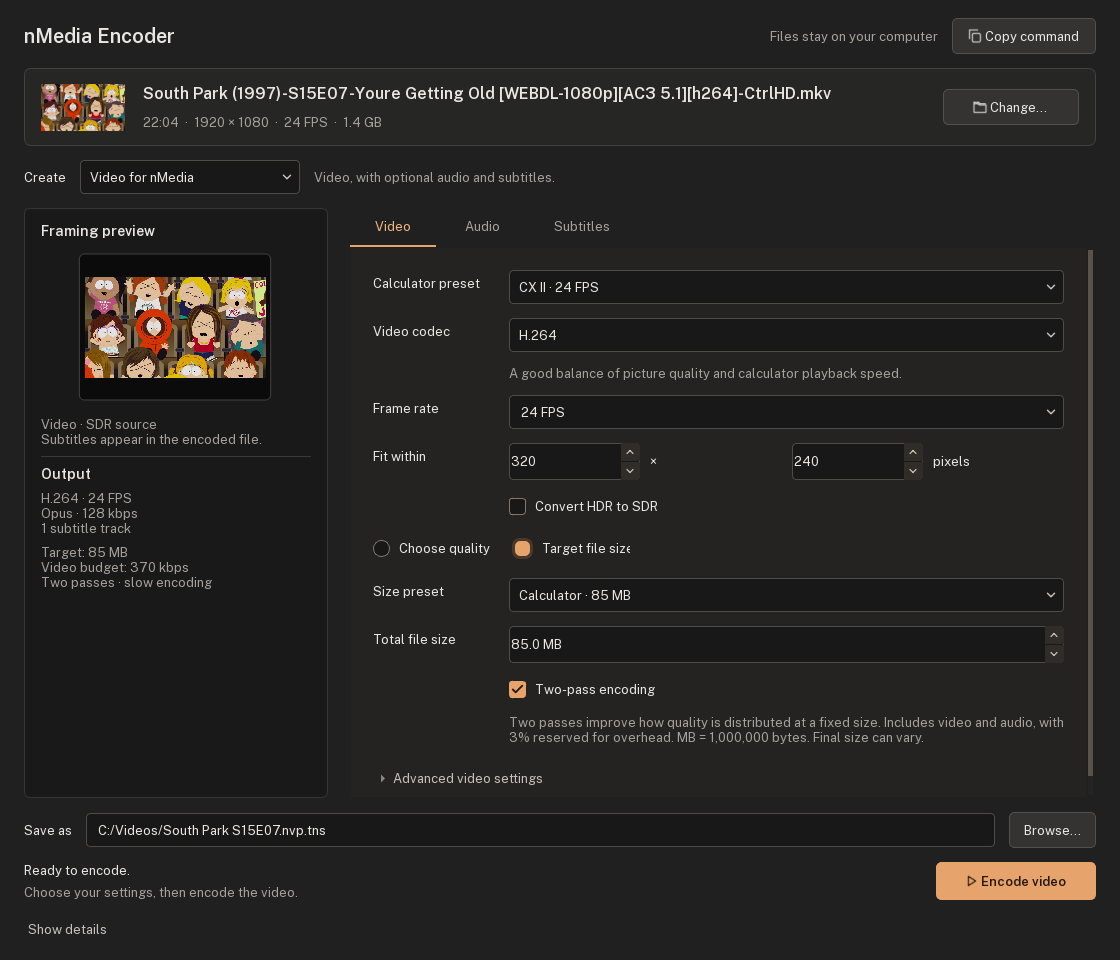
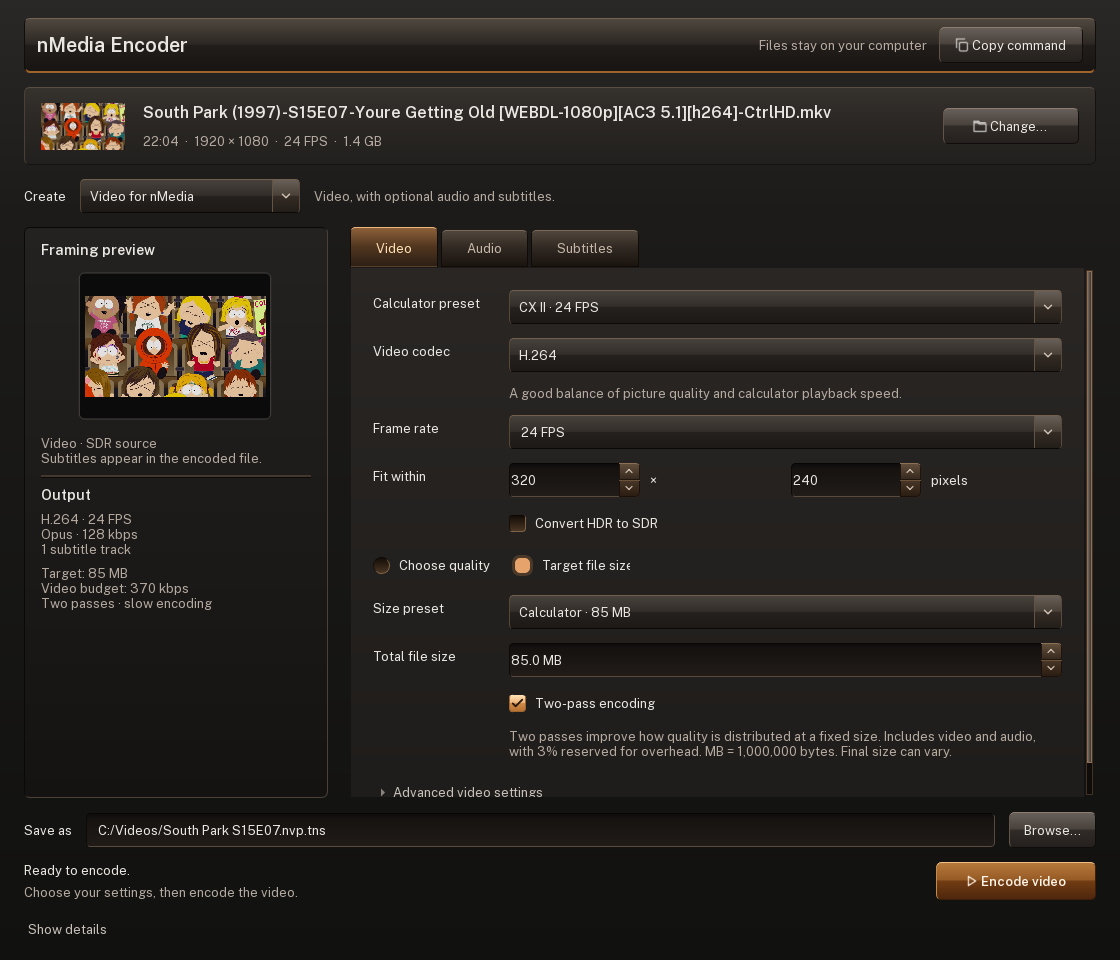
Match encoder controls to the player's Amber styling

Changed region(s): [[0.0, 0.0, 1.0, 0.8438], [0.8125, 0.8438, 1.0, 0.9375], [0.3438, 0.4062, 0.375, 0.5]]

diff --git a/tools/encoder_gui/widgets.py b/tools/encoder_gui/widgets.py
@@ -80,66 +80,71 @@ class Preview(QWidget):
 
 STYLES="""
 QWidget { background: transparent; color: #eae7e3; font-family: 'Public Sans', 'Noto Sans'; font-size: 13px; }
-QMainWindow { background: #202020; }
-QDialog { background: #262625; }
+QMainWindow { background: qlineargradient(x1:0,y1:0,x2:0,y2:1,stop:0 #292827,stop:0.22 #1c1b1a,stop:1 #111110); }
+QDialog { background: #211e1b; }
 QLabel { background: transparent; }
 QLabel#appTitle { font-size: 20px; font-weight: 600; }
 QLabel#sourceTitle { font-size: 16px; font-weight: 600; }
-QLabel#muted { color: #a6a19a; }
+QLabel#muted { color: #b5aaa0; }
 QLabel#sectionTitle { color: #eae7e3; font-weight: 600; font-size: 14px; }
 QLabel#error { color: #ffaf9e; background: #3b2925; border: 1px solid #815347; border-radius: 5px; padding: 9px 12px; }
-QFrame#sourceCard { background: #262625; border: 1px solid #45423e; border-radius: 7px; }
+QFrame#appHeader { background: qlineargradient(x1:0,y1:0,x2:0,y2:1,stop:0 #514940,stop:0.48 #2c2723,stop:0.50 #211d1a,stop:1 #171412); border: 1px solid #100d0b; border-top-color: #746456; border-bottom: 2px solid #9e642c; border-radius: 6px; }
+QFrame#sourceCard { background: qlineargradient(x1:0,y1:0,x2:0,y2:1,stop:0 #36322e,stop:0.5 #292623,stop:1 #22201e); border: 1px solid #15110e; border-top-color: #5b4e42; border-left-color: #4c4036; border-radius: 6px; }
 QFrame#sourceCard[dragging="true"] { border: 2px solid #e6a46c; }
-QFrame#previewPanel { background: #191919; border: 1px solid #373533; border-radius: 6px; }
+QFrame#previewPanel { background: qlineargradient(x1:0,y1:0,x2:0,y2:1,stop:0 #242220,stop:1 #141312); border: 1px solid #4c4137; border-top-color: #080706; border-left-color: #0b0908; border-radius: 6px; }
 QFrame#footer { background: #262625; border-top: 1px solid #403d39; }
-QFrame#divider { background: #3d3934; border: none; max-height: 1px; }
-QPushButton { background: #343332; border: 1px solid #55504b; border-radius: 5px; padding: 8px 14px; min-height: 18px; }
-QPushButton:hover { background: #42403d; border-color: #9b8672; }
-QPushButton:pressed { background: #282725; border-color: #e6a46c; padding-top: 9px; padding-bottom: 7px; }
-QPushButton:focus { border: 1px solid #e6a46c; }
-QPushButton:disabled { background: #2b2b2a; color: #77736e; border-color: #3c3a37; }
-QPushButton#primary { color: #25180e; background: #e6a46c; border: 1px solid #e6a46c; font-weight: 600; padding: 9px 24px; }
-QPushButton#primary:hover { background: #f0b782; border-color: #f0b782; }
-QPushButton#primary:pressed { background: #cc8b54; }
-QPushButton#primary:disabled { background: #66503e; border-color: #66503e; color: #b6a18f; }
+QFrame#divider { background: #44382e; border: none; border-bottom: 1px solid #0b0908; max-height: 2px; }
+QPushButton { background: qlineargradient(x1:0,y1:0,x2:0,y2:1,stop:0 #68605a,stop:0.47 #49413b,stop:0.50 #312b27,stop:1 #24201d); border: 1px solid #100c09; border-top-color: #8e7d6e; border-left-color: #655548; border-radius: 5px; padding: 8px 14px; min-height: 18px; }
+QPushButton:hover { background: qlineargradient(x1:0,y1:0,x2:0,y2:1,stop:0 #81705f,stop:0.47 #5d4a3c,stop:0.50 #413025,stop:1 #2b2119); border-color: #c08b53; border-top-color: #edbd8a; }
+QPushButton:pressed { background: qlineargradient(x1:0,y1:0,x2:0,y2:1,stop:0 #221a14,stop:0.5 #342519,stop:1 #514033); border-top-color: #17100b; border-left-color: #20140c; border-bottom-color: #ba8b5b; padding-top: 9px; padding-bottom: 7px; }
+QPushButton:focus { border-color: #e6a46c; }
+QPushButton:disabled { background: qlineargradient(x1:0,y1:0,x2:0,y2:1,stop:0 #393430,stop:0.5 #2a2521,stop:1 #211d1a); color: #918478; border-color: #3f352c; border-top-color: #55483c; }
+QPushButton#primary { color: #fff4e6; background: qlineargradient(x1:0,y1:0,x2:0,y2:1,stop:0 #b67a3b,stop:0.47 #965a26,stop:0.50 #723c13,stop:1 #4d260c); border: 1px solid #3e1e08; border-top-color: #f0bf87; border-left-color: #c58a4b; font-weight: 600; padding: 9px 24px; }
+QPushButton#primary:hover { background: qlineargradient(x1:0,y1:0,x2:0,y2:1,stop:0 #d5944c,stop:0.47 #ab682b,stop:0.50 #874917,stop:1 #65300e); border-color: #edb773; }
+QPushButton#primary:pressed { background: qlineargradient(x1:0,y1:0,x2:0,y2:1,stop:0 #452109,stop:0.5 #70390f,stop:1 #9a5d29); border-top-color: #331705; border-bottom-color: #e0a56b; padding-top: 10px; padding-bottom: 8px; }
+QPushButton#primary:disabled { background: qlineargradient(x1:0,y1:0,x2:0,y2:1,stop:0 #66503a,stop:1 #352719); border-color: #513e2c; color: #b6a18f; }
 QToolButton { border: none; padding: 6px 0; color: #c7c1b9; background: transparent; }
 QToolButton:hover { color: #f0b782; }
-QLineEdit,QComboBox,QSpinBox,QDoubleSpinBox { background: #181818; border: 1px solid #514b45; border-radius: 4px; padding: 7px 9px; min-height: 18px; selection-background-color: #755137; }
+QLineEdit,QComboBox,QSpinBox,QDoubleSpinBox { background: qlineargradient(x1:0,y1:0,x2:0,y2:1,stop:0 #0d0c0b,stop:0.16 #151210,stop:1 #211c18); border: 1px solid #594a3d; border-top-color: #080605; border-left-color: #0c0907; border-radius: 4px; padding: 7px 9px; min-height: 18px; selection-background-color: #755137; }
 QLineEdit:focus,QComboBox:focus,QSpinBox:focus,QDoubleSpinBox:focus { border-color: #e6a46c; }
 QLineEdit[invalid="true"],QComboBox[invalid="true"],QSpinBox[invalid="true"],QDoubleSpinBox[invalid="true"] { border-color: #e8a18b; background: #332521; }
 QLineEdit:disabled,QComboBox:disabled,QSpinBox:disabled,QDoubleSpinBox:disabled { color: #78736d; border-color: #373431; background: #252422; }
-QComboBox { padding-right: 28px; }
-QComboBox::drop-down { border: none; width: 24px; }
+QComboBox { padding-right: 28px; background: qlineargradient(x1:0,y1:0,x2:0,y2:1,stop:0 #47423c,stop:0.48 #332e29,stop:0.51 #25211e,stop:1 #1c1916); border-top-color: #73604c; border-left-color: #594735; border-bottom-color: #0c0805; }
+QComboBox:hover { border-color: #ad7a46; }
+QComboBox::drop-down { border: none; border-left: 1px solid #655444; width: 26px; background: qlineargradient(x1:0,y1:0,x2:0,y2:1,stop:0 #686058,stop:0.48 #494038,stop:0.51 #332b24,stop:1 #231e19); border-top-right-radius: 3px; border-bottom-right-radius: 3px; }
+QComboBox::drop-down:pressed { background: #342313; }
 QComboBox::down-arrow { image: url('@ASSETS@/down.svg'); width: 14px; height: 14px; }
 QSpinBox,QDoubleSpinBox { padding-right: 22px; }
-QSpinBox::up-button,QDoubleSpinBox::up-button { subcontrol-origin: border; subcontrol-position: top right; width: 19px; background: #302d29; border-top-right-radius: 4px; }
-QSpinBox::down-button,QDoubleSpinBox::down-button { subcontrol-origin: border; subcontrol-position: bottom right; width: 19px; background: #302d29; border-bottom-right-radius: 4px; }
+QSpinBox::up-button,QDoubleSpinBox::up-button { subcontrol-origin: border; subcontrol-position: top right; width: 19px; background: qlineargradient(x1:0,y1:0,x2:0,y2:1,stop:0 #65513e,stop:1 #34271c); border: 1px solid #20150d; border-top-color: #8e7155; border-top-right-radius: 4px; }
+QSpinBox::down-button,QDoubleSpinBox::down-button { subcontrol-origin: border; subcontrol-position: bottom right; width: 19px; background: qlineargradient(x1:0,y1:0,x2:0,y2:1,stop:0 #4a3828,stop:1 #291b11); border: 1px solid #1b110a; border-top-color: #6d523b; border-bottom-right-radius: 4px; }
 QSpinBox::up-button:hover,QSpinBox::down-button:hover,QDoubleSpinBox::up-button:hover,QDoubleSpinBox::down-button:hover { background: #544334; }
 QSpinBox::up-arrow,QDoubleSpinBox::up-arrow { image: url('@ASSETS@/up.svg'); width: 12px; height: 12px; }
 QSpinBox::down-arrow,QDoubleSpinBox::down-arrow { image: url('@ASSETS@/down.svg'); width: 12px; height: 12px; }
 QComboBox QAbstractItemView { background: #282725; color: #eae7e3; border: 1px solid #615548; selection-background-color: #55402f; padding: 3px; }
-QTabWidget::pane { border: 1px solid #46413c; border-radius: 5px; background: #242322; }
-QTabBar::tab { background: transparent; color: #a8a29a; padding: 11px 25px; border-bottom: 2px solid transparent; margin-right: 4px; }
-QTabBar::tab:selected { color: #f0b782; border-bottom-color: #e6a46c; }
-QTabBar::tab:hover { color: #f2e4d6; background: #2c2926; }
+QTabWidget::pane { border: 1px solid #5a4736; border-top-color: #896d52; border-bottom-color: #090604; border-radius: 5px; background: #211b16; }
+QTabBar::tab { background: qlineargradient(x1:0,y1:0,x2:0,y2:1,stop:0 #51473d,stop:0.48 #302821,stop:1 #19130f); color: #c6b7a9; padding: 10px 25px; border: 1px solid #100b07; border-top-color: #7c6a59; border-top-left-radius: 5px; border-top-right-radius: 5px; margin-right: 3px; margin-top: 3px; }
+QTabBar::tab:selected { color: #ffe0b4; background: qlineargradient(x1:0,y1:0,x2:0,y2:1,stop:0 #8f623a,stop:0.48 #51361f,stop:1 #2a1e14); border-top-color: #edb77b; border-bottom-color: #58402a; margin-top: 0; padding-top: 13px; }
+QTabBar::tab:hover { color: #fff0dd; border-top-color: #d29a60; }
+QTabBar::tab:disabled { color: #8b7b6d; background: #28221c; border-top-color: #473b31; }
 QScrollArea { border: none; background: transparent; }
-QScrollArea > QWidget > QWidget { background: #242322; }
-QScrollBar:vertical { background: #252422; width: 9px; margin: 2px; }
-QScrollBar::handle:vertical { background: #5a5149; border-radius: 3px; min-height: 30px; }
+QScrollArea > QWidget > QWidget { background: qlineargradient(x1:0,y1:0,x2:0,y2:1,stop:0 #292624,stop:1 #1e1c1a); }
+QScrollBar:vertical { background: #100c09; border: 1px solid #413123; width: 11px; margin: 2px; }
+QScrollBar::handle:vertical { background: qlineargradient(x1:0,y1:0,x2:1,y2:0,stop:0 #8e8175,stop:0.45 #5a5047,stop:1 #302a24); border: 1px solid #8b7057; border-radius: 3px; min-height: 30px; }
+QScrollBar::handle:vertical:hover { border-color: #e6a46c; }
 QScrollBar::add-line:vertical,QScrollBar::sub-line:vertical { height: 0; }
 QCheckBox,QRadioButton { spacing: 9px; background: transparent; min-height: 24px; }
-QCheckBox::indicator,QRadioButton::indicator { width: 15px; height: 15px; border: 1px solid #847567; background: #181818; border-radius: 3px; }
+QCheckBox::indicator,QRadioButton::indicator { width: 15px; height: 15px; border: 1px solid #7f6248; border-top-color: #0d0805; border-left-color: #160e08; background: qlineargradient(x1:0,y1:0,x2:0,y2:1,stop:0 #120c07,stop:1 #4c3724); border-radius: 3px; }
 QRadioButton::indicator { border-radius: 8px; }
 QCheckBox::indicator:checked,QRadioButton::indicator:checked { background: #e6a46c; border: 3px solid #4a3829; }
-QCheckBox::indicator:checked,QTreeWidget::indicator:checked { image: url('@ASSETS@/check.svg'); background: #e6a46c; border: 1px solid #e6a46c; border-radius: 3px; }
+QCheckBox::indicator:checked,QTreeWidget::indicator:checked { image: url('@ASSETS@/check.svg'); background: qlineargradient(x1:0,y1:0,x2:0,y2:1,stop:0 #ffe0b2,stop:0.45 #eeb579,stop:0.5 #d08b49,stop:1 #b77232); border: 1px solid #9f662f; border-top-color: #ffdfb0; border-radius: 3px; }
 QCheckBox::indicator:hover,QRadioButton::indicator:hover { border-color: #e6a46c; }
-QTreeWidget { background: #1c1c1b; border: 1px solid #49443e; border-radius: 4px; outline: none; }
+QTreeWidget { background: #17120e; border: 1px solid #5e4937; border-top-color: #090603; border-left-color: #0e0905; border-radius: 4px; outline: none; }
 QTreeWidget::item { min-height: 34px; padding: 4px 7px; }
 QTreeWidget::item:selected { background: #4c3b2d; }
 QTreeWidget::item:hover { background: #35302b; }
-QHeaderView::section { background: #302d29; border: none; border-bottom: 1px solid #49443e; color: #bdb4a9; padding: 7px; }
-QProgressBar { background: #161615; border: none; border-radius: 3px; min-height: 6px; max-height: 6px; }
-QProgressBar::chunk { background: #e6a46c; border-radius: 3px; }
+QHeaderView::section { background: qlineargradient(x1:0,y1:0,x2:0,y2:1,stop:0 #655342,stop:0.48 #3e2f23,stop:0.51 #2e2118,stop:1 #251a12); border: 1px solid #1a1009; border-top-color: #8f7258; color: #ead5c2; padding: 7px; }
+QProgressBar { background: #100b07; border: 1px solid #503924; border-top-color: #040302; border-radius: 4px; min-height: 8px; max-height: 8px; }
+QProgressBar::chunk { background: qlineargradient(x1:0,y1:0,x2:0,y2:1,stop:0 #ffe2b8,stop:0.45 #e8ac66,stop:0.5 #b96e28,stop:1 #804112); border-radius: 3px; }
 QPlainTextEdit { background: #151515; border: 1px solid #49443e; border-radius: 4px; font-family: 'Cascadia Mono',monospace; font-size: 11px; padding: 7px; }
 QToolTip { background: #38322c; color: #f0e7dd; border: 1px solid #746451; padding: 6px; }
 """.replace('@ASSETS@',(Path(__file__).resolve().parent/'assets').as_posix())

diff --git a/tools/encoder_gui/app.py b/tools/encoder_gui/app.py
@@ -54,10 +54,11 @@ class EncoderWindow(QMainWindow):
         self.external_subtitles=[];self.loading_tracks=False;self.selected_path='';self.audio_requested=self.settings.value('include_audio',True,type=bool)
         self.root=QWidget();self.setCentralWidget(self.root)
         main=QVBoxLayout(self.root);main.setContentsMargins(24,18,24,16);main.setSpacing(14)
-        header=QHBoxLayout();title=QLabel('nMedia Encoder');title.setObjectName('appTitle');header.addWidget(title)
+        header_frame=QFrame();header_frame.setObjectName('appHeader');header=QHBoxLayout(header_frame);header.setContentsMargins(12,8,12,8);header.setSpacing(12)
+        title=QLabel('nMedia Encoder');title.setObjectName('appTitle');header.addWidget(title)
         header.addStretch();privacy=muted('Files stay on your computer');privacy.setWordWrap(False);header.addWidget(privacy)
         self.copy=QPushButton('Copy command');self.copy.setIcon(icon('copy'));self.copy.setToolTip('Copy the equivalent Python CLI command. Run it from the source repository.');header.addWidget(self.copy)
-        main.addLayout(header)
+        main.addWidget(header_frame)
         self.source=SourceCard();main.addWidget(self.source)
         mode_row=QHBoxLayout();mode_row.addWidget(QLabel('Create'))
         self.operation=combo([('Video for nMedia','video'),('Audio file','audio')]);self.operation.setMinimumWidth(220)
@@ -94,7 +95,7 @@ class EncoderWindow(QMainWindow):
         self.status_detail=muted('The command-line encoder is still available.');status_box.addWidget(self.status);status_box.addWidget(self.status_detail);status_row.addLayout(status_box,1)
         self.open_folder=QPushButton('Open folder');self.open_folder.hide();status_row.addWidget(self.open_folder)
         self.cancel=QPushButton('Cancel');self.cancel.hide();status_row.addWidget(self.cancel)
-        self.encode=QPushButton('Encode video');self.encode.setObjectName('primary');self.encode.setIcon(icon('play','#25180e'));self.encode.setMinimumWidth(160);status_row.addWidget(self.encode);main.addLayout(status_row)
+        self.encode=QPushButton('Encode video');self.encode.setObjectName('primary');self.encode.setIcon(icon('play','#fff4e6'));self.encode.setMinimumWidth(160);status_row.addWidget(self.encode);main.addLayout(status_row)
         log_row=QHBoxLayout();self.details=QToolButton();self.details.setText('Show details');self.details.setCheckable(True)
         self.save_log=QPushButton('Save log…');self.save_log.hide();log_row.addWidget(self.details);log_row.addStretch();log_row.addWidget(self.save_log);main.addLayout(log_row)
         self.log=QPlainTextEdit();self.log.setReadOnly(True);self.log.setMaximumBlockCount(2000);self.log.setMaximumHeight(150);self.log.hide();main.addWidget(self.log)
@@ -542,7 +543,7 @@ def apply_style(app):
         app.setProperty('nmedia-font-loaded',True)
     app.setApplicationName('nMedia Encoder');app.setApplicationVersion(VERSION);app.setOrganizationName('nMedia');app.setStyle('Fusion');app.setStyleSheet(STYLES)
     palette=app.palette()
-    for role,color in ((QPalette.ColorRole.Window,'#202020'),(QPalette.ColorRole.Base,'#181818'),(QPalette.ColorRole.Button,'#343332'),
+    for role,color in ((QPalette.ColorRole.Window,'#171513'),(QPalette.ColorRole.Base,'#121110'),(QPalette.ColorRole.Button,'#39332e'),
         (QPalette.ColorRole.Text,'#eae7e3'),(QPalette.ColorRole.WindowText,'#eae7e3'),(QPalette.ColorRole.ButtonText,'#eae7e3'),
         (QPalette.ColorRole.Highlight,'#9a6743'),(QPalette.ColorRole.HighlightedText,'#ffffff')):palette.setColor(role,QColor(color))
     app.setPalette(palette)
